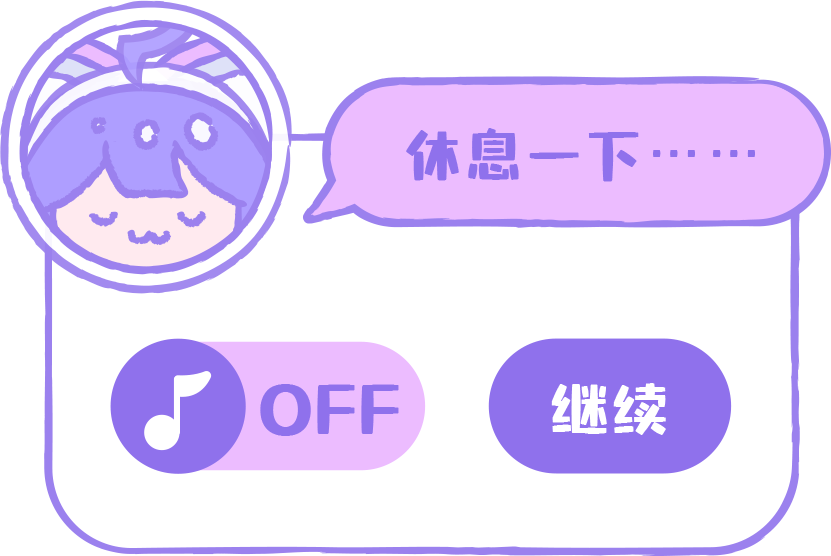
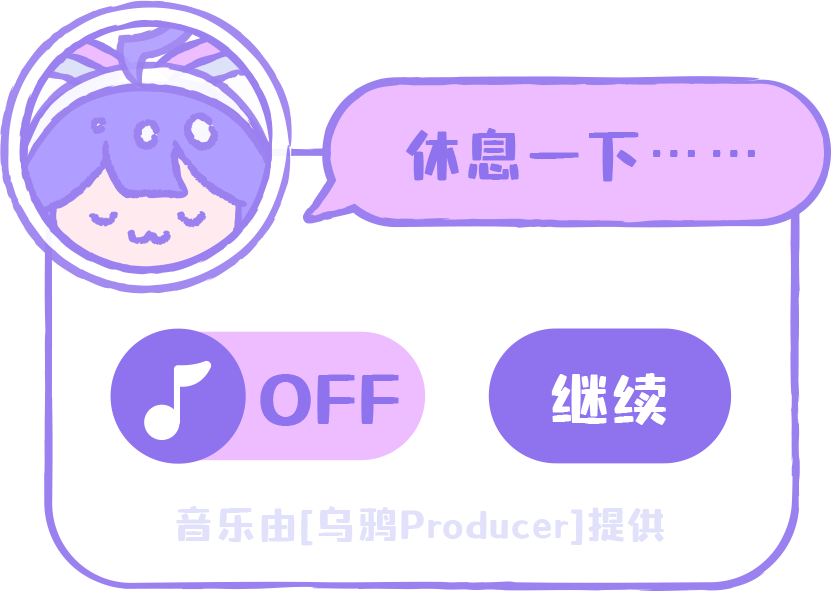
4.13

diff --git a/scripts/snake.js b/scripts/snake.js
@@ -104,7 +104,7 @@ function resize() {
   tipTop = 350 / 659 * windowHeight
   tipLeft = (windowWidth + gameWidth) / 2 + 105 / 659 * windowHeight
 
-  pausePanelHeight = 150 / 659 * windowHeight
+  pausePanelHeight = 155 / 659 * windowHeight
   pausePanelWidth = 225 / 659 * windowHeight
   pausePanelTop = 205 / 659 * windowHeight
   pausePanelLeft = (windowWidth - pausePanelWidth) / 2
